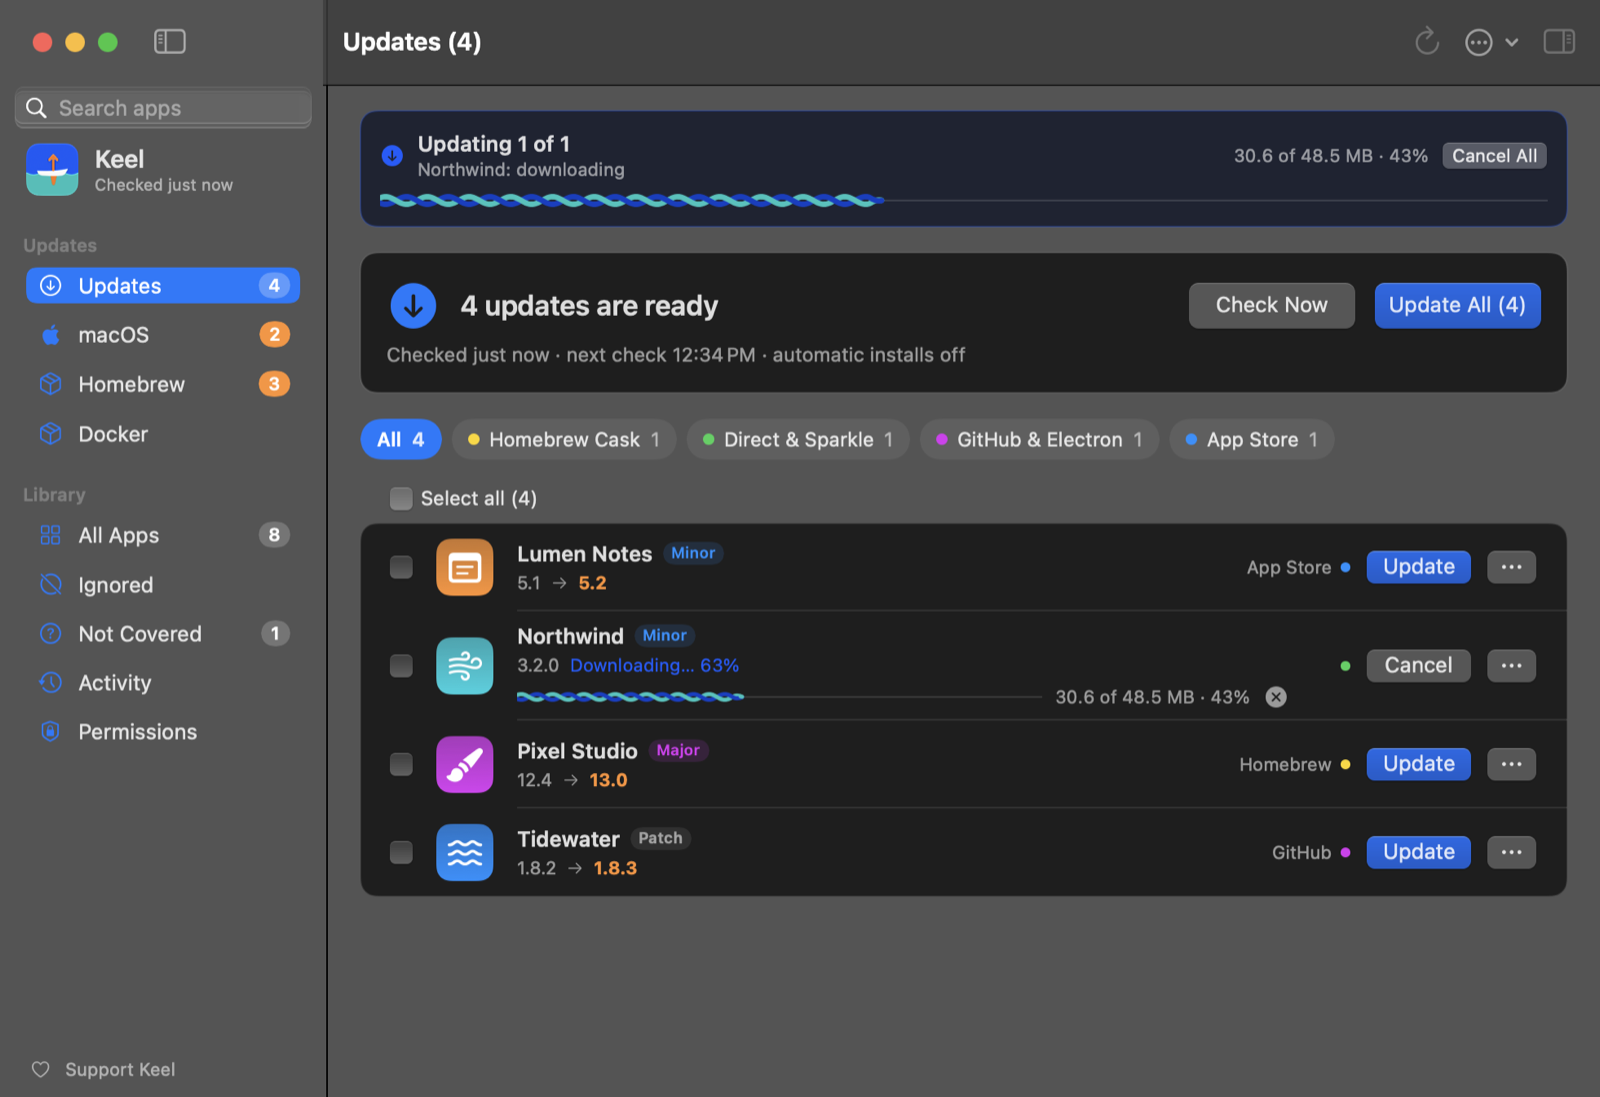
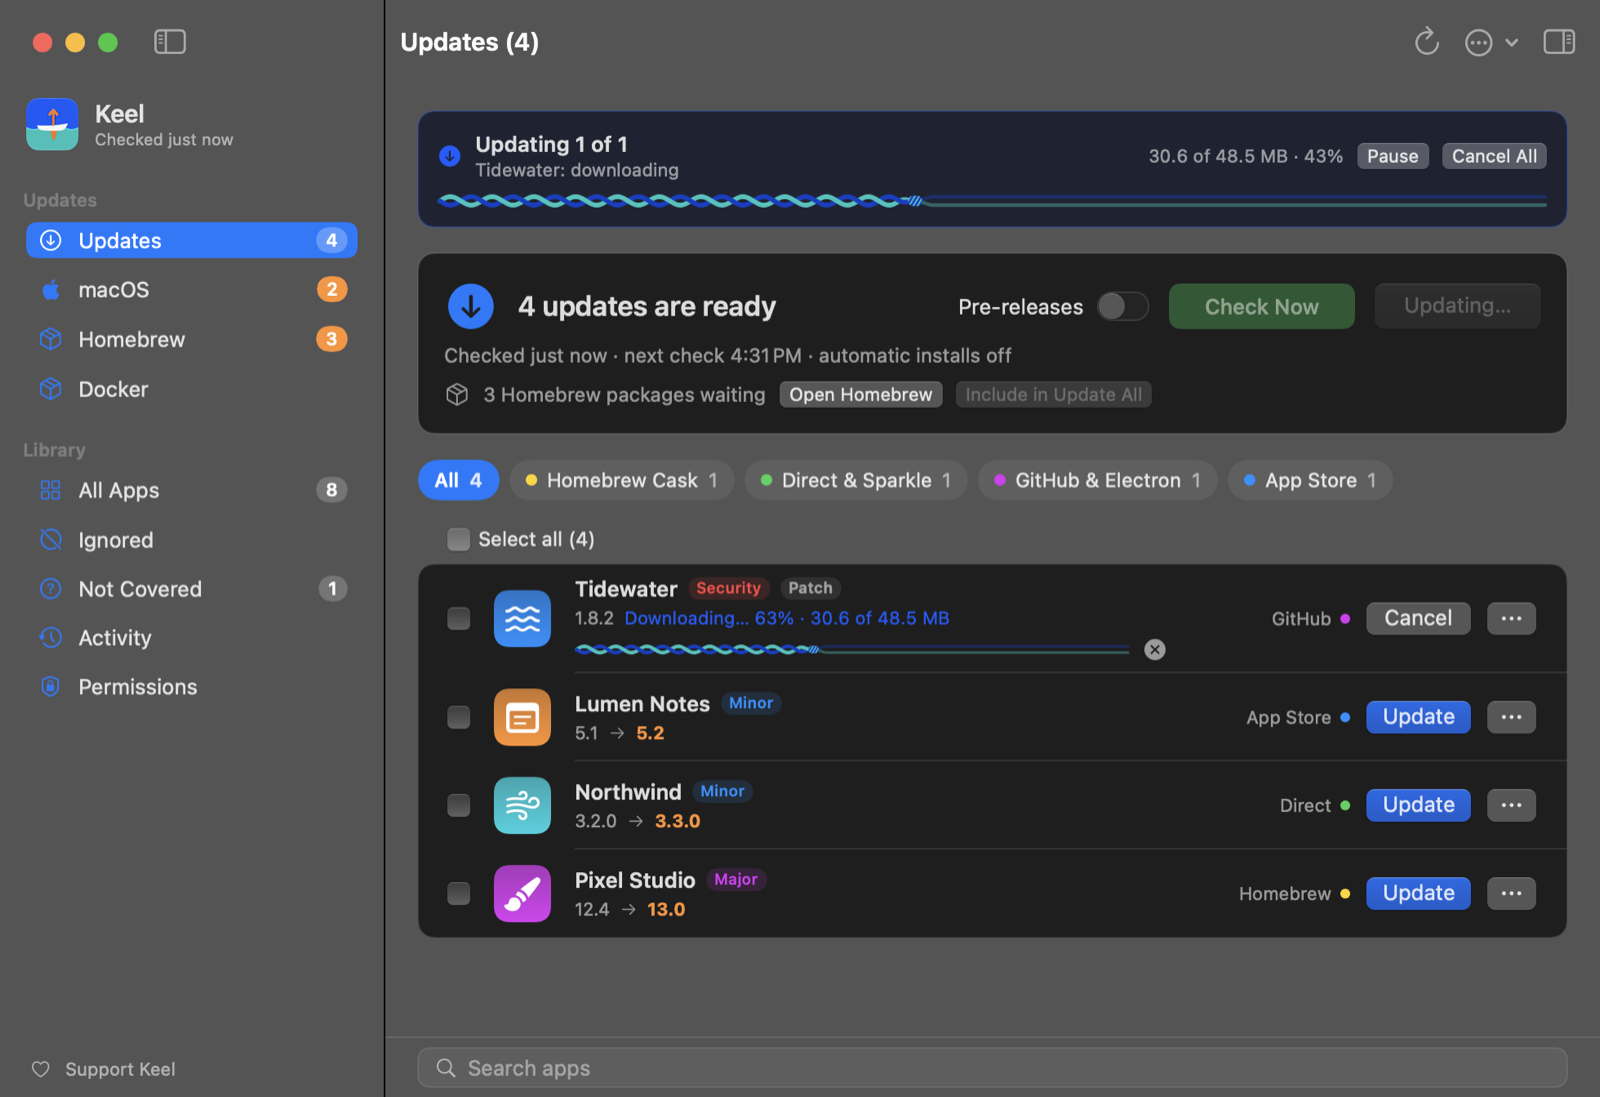
Download page: What Keel does, last three versions, link previews, today's screenshot (Batch 35)

diff --git a/index.html b/index.html
@@ -6,6 +6,15 @@
 <title>Keel</title>
 <meta name="description" content="Keel keeps the apps on your Mac up to date, and checks every download before it installs it.">
 <link rel="icon" href="keel-icon.png">
+<meta property="og:type" content="website">
+<meta property="og:title" content="Keel">
+<meta property="og:description" content="Keeps the apps on your Mac up to date, and checks every download before it installs it.">
+<meta property="og:url" content="https://kavyamufc.github.io/keel-releases/">
+<meta property="og:image" content="https://kavyamufc.github.io/keel-releases/film-poster.jpg">
+<meta name="twitter:card" content="summary_large_image">
+<meta name="twitter:title" content="Keel">
+<meta name="twitter:description" content="Keeps the apps on your Mac up to date, and checks every download before it installs it.">
+<meta name="twitter:image" content="https://kavyamufc.github.io/keel-releases/film-poster.jpg">
 <style>
   :root {
     color-scheme: light dark;
@@ -70,6 +79,8 @@
     margin: 0 0 16px;
   }
   h2 { font-size: 19px; margin: 0 0 10px; }
+  h3 { font-size: 15px; margin: 16px 0 6px; color: var(--muted); font-weight: 600; }
+  h2 + h3 { margin-top: 0; }
   ol, ul { margin: 0; padding-left: 22px; }
   li + li { margin-top: 8px; }
   a { color: var(--accent); }
@@ -111,11 +122,44 @@
   </video>
   <p class="caption">Keel in 70 seconds, with example apps.</p>
 
+  <section>
+    <h2>What Keel does</h2>
+    <ul>
+      <li>One list for all your apps: App Store, Homebrew, Sparkle, GitHub and Microsoft apps, and apps that update
+        themselves.</li>
+      <li>Checks every download's signature and developer before it installs it, and refuses anything signed less
+        strongly than the copy you have.</li>
+      <li>Keeps a backup of the old version, so any update can be undone.</li>
+      <li>Homebrew packages and macOS updates have their own pages.</li>
+      <li>Free, with no account. Keel sends nothing about you; it only asks each app's source whether there's a
+        newer version.</li>
+    </ul>
+  </section>
+
   <!-- whatsnew -->
   <section>
-    <h2>What's new in 1.15.2</h2>
+    <h2>What's new</h2>
+    <h3>1.15.2 · 26 Nov</h3>
     <ul>
   <li>Support Keel now has a Buy Me a Coffee button (buymeacoffee.com/kavyaarya). Donations go towards an Apple Developer ID so Keel opens without security warnings. GitHub Sponsors follows once GitHub approves it.</li>
+</ul>
+    <h3>1.15.1 · 26 Nov</h3>
+    <ul>
+  <li>App Store updates of an open app now go through Keel&#x27;s usual step: the row asks Quit and Update or Skip, Keel quits the app itself, updates it and opens it again. The App Store no longer asks &quot;cannot be open during installation&quot; again and again.</li>
+  <li>Keel also waits for an app&#x27;s own helper processes inside the app (such as WhatsApp&#x27;s ServiceExtension) and asks them to quit before the App Store installs.</li>
+  <li>If an App Store update makes no progress for 10 minutes, Keel stops it; the row says the App Store is waiting for the app to quit and nothing was changed, with Update still there.</li>
+  <li>&quot;User has cancelled install&quot; from the App Store now shows as Cancelled, not a failure, and other App Store errors show their plain description instead of a raw error dump.</li>
+</ul>
+    <h3>1.15.0 · 26 Nov</h3>
+    <ul>
+  <li>Updates: an &quot;Include in Update All&quot; button beside &quot;Open Homebrew&quot; lets Update All update your Homebrew packages too (&quot;Leave out&quot; turns it off again). It&#x27;s the same setting as in Settings.</li>
+  <li>Apps whose new version macOS won&#x27;t open, because Homebrew disabled the cask for failing Apple&#x27;s check, now say so on their row and offer the Download Page instead of an Update button that would fail. They aren&#x27;t counted as waiting.</li>
+  <li>When Keel refuses a download for its signature, it remembers that version and doesn&#x27;t try it again; the row offers the Download Page until a newer version comes out.</li>
+  <li>GitHub releases with several Mac files: Keel now skips command-line tools, picks the build for the newest macOS your Mac runs, and prefers the file named after the app, instead of giving up.</li>
+  <li>Cancelling the App Store&#x27;s prompt during an update now shows &quot;Cancelled · still available&quot; instead of a failure, with no popup.</li>
+  <li>App Store errors now show one clean line instead of the App Store tool&#x27;s progress bars.</li>
+  <li>The popup after Update All lists at most five apps, so its OK button is always on screen.</li>
+  <li>An update that failed but is still available is counted at the top of Updates, instead of &quot;Everything is up to date&quot;.</li>
 </ul>
     <p class="muted"><a href="changelog.html">Every version</a></p>
   </section>

diff --git a/changelog.html b/changelog.html
@@ -69,6 +69,8 @@
     margin: 0 0 16px;
   }
   h2 { font-size: 19px; margin: 0 0 10px; }
+  h3 { font-size: 15px; margin: 16px 0 6px; color: var(--muted); font-weight: 600; }
+  h2 + h3 { margin-top: 0; }
   ol, ul { margin: 0; padding-left: 22px; }
   li + li { margin-top: 8px; }
   a { color: var(--accent); }
